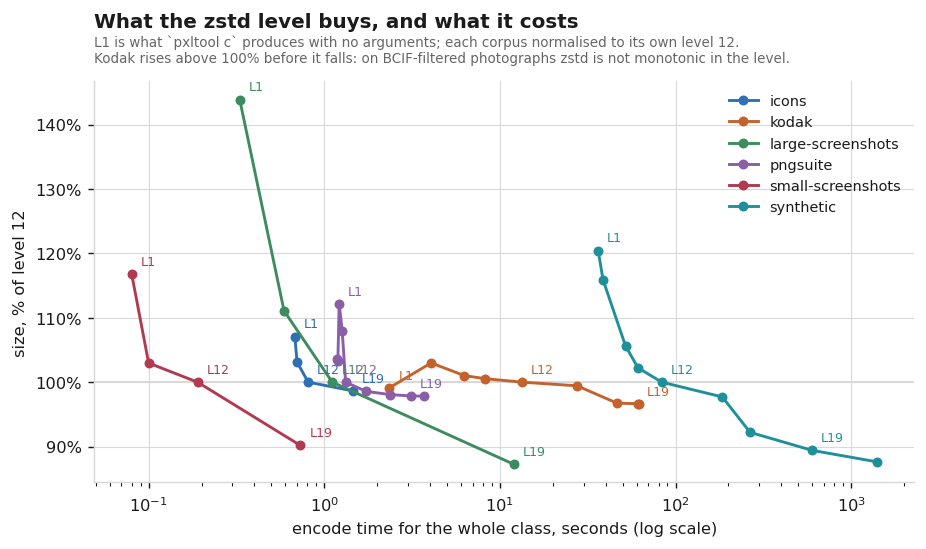
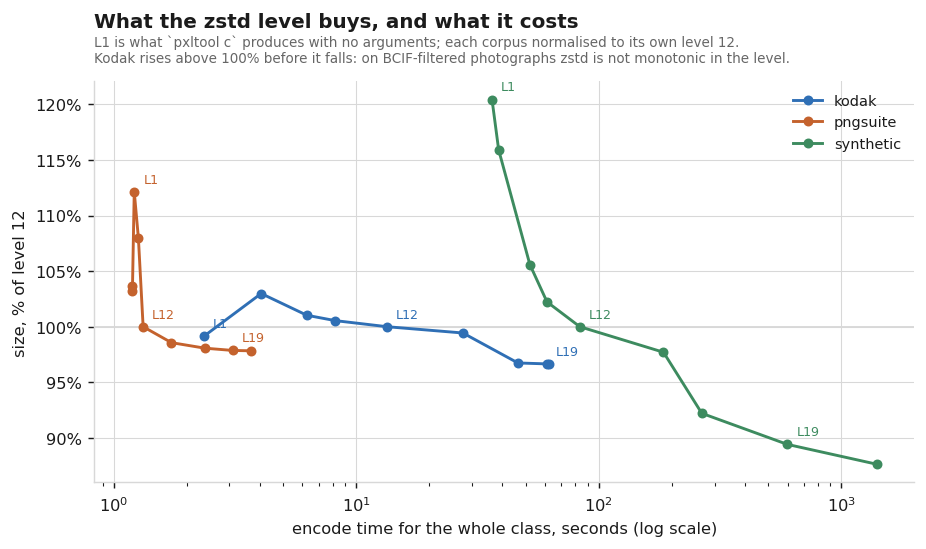
bench: drop the seeded level data, which was not comparable with the real sweeps
levels_icons/small-screenshots/large-screenshots were hand-written from an
ad-hoc zstd measurement over filtered streams, while levels_kodak/pngsuite/
synthetic come from bench/levelsweep.sh encoding real PNGs with pxltool. The
percentage axis was comparable between them; the time axis was not, since one
measures zstd on a prepared buffer and the other a full encode including the
PNG load and the filter search. Three lines of the level chart were therefore
plotted against a different notion of time than the other three.

Removed, and plots.py now skips any level file reporting zero files encoded, so
a seeded stand-in cannot quietly rejoin the chart.

diff --git a/bench/plots.py b/bench/plots.py
@@ -81,9 +81,14 @@ def load_level_files():
     """
     out = {}
     for path in sorted(glob.glob(os.path.join(DATA, "levels_*.tsv"))):
+        # Only real sweeps: bench/levelsweep.sh records how many files it
+        # encoded, and a hand-seeded file records zero. Mixing the two once put
+        # raw-zstd-on-a-filtered-stream timings on the same time axis as a full
+        # pxltool encode, which measures entirely different work.
         label = re.sub(r"^levels_|\.tsv$", "", os.path.basename(path))
         with open(path, newline="", encoding="utf-8") as fh:
-            rows = [r for r in csv.DictReader(fh, delimiter="\t") if r.get("level")]
+            rows = [r for r in csv.DictReader(fh, delimiter="\t")
+                    if r.get("level") and int(r.get("files") or 0) > 0]
         if rows:
             out[label] = rows
     return out
